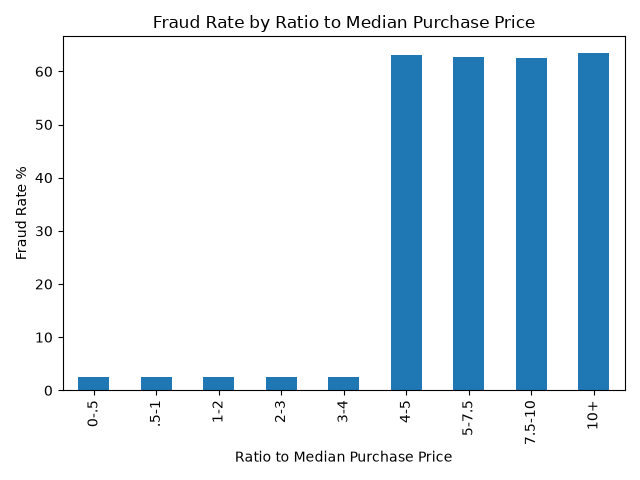
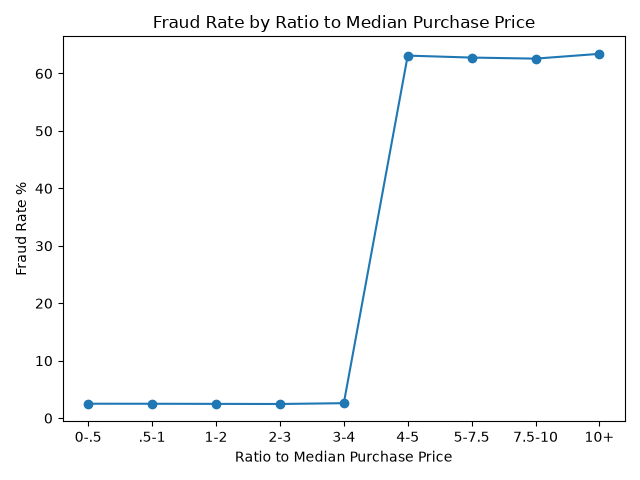
Updated ratio chart to line chart

diff --git a/frontend_charts.py b/frontend_charts.py
@@ -66,7 +66,8 @@ def createRatio():
     Count = df.groupby("ratio_groups",observed=False)["fraud"].count()
     print(Count)
     #start making the chart
-    ratioFraud.plot(kind="bar")
+    # ratioFraud.plot(kind="bar")
+    ratioFraud.plot(kind="line", marker="o")
     mplot.title("Fraud Rate by Ratio to Median Purchase Price")
     mplot.xlabel("Ratio to Median Purchase Price")
     mplot.ylabel("Fraud Rate %")
@@ -112,7 +113,7 @@ def createBool():
 
 
 #Create Charts
-# createDistanceChartFromHome()
-# createDistanceFromLast()
-# createRatio()
+createDistanceChartFromHome()
+createDistanceFromLast()
+createRatio()
 createBool()
